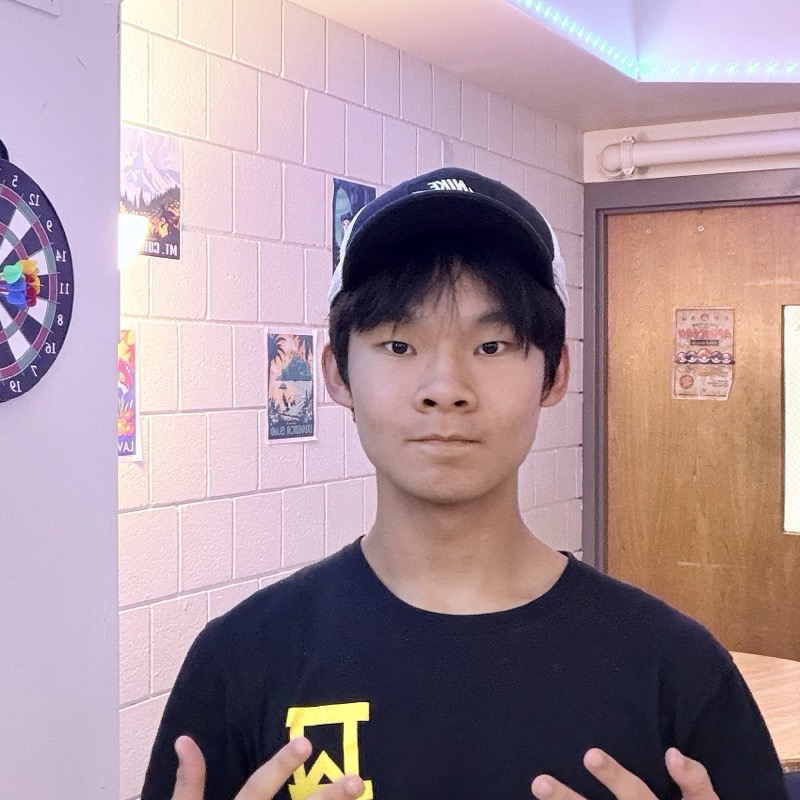
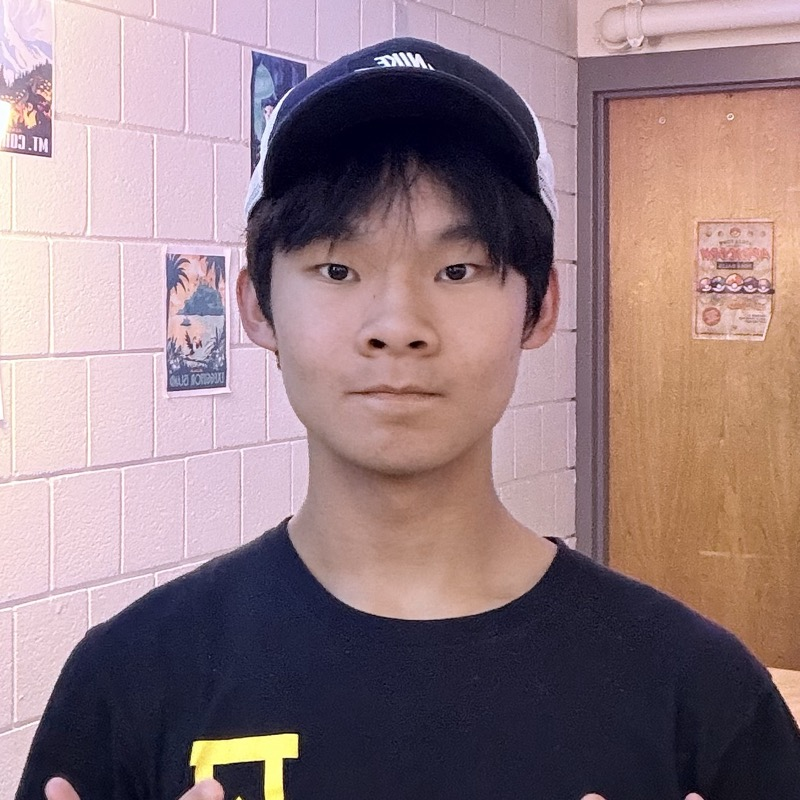
feat: add face-centered photos for all officers

diff --git a/website-frontend/app/page.tsx b/website-frontend/app/page.tsx
@@ -16,10 +16,10 @@ type GalleryItem = {
 const OFFICERS: { name: string; role: string; email: string; photo?: string }[] = [
   { name: "David Ta", role: "Co-President", email: "ta27d@ncssm.edu", photo: "/officers/david.jpg" },
   { name: "Nathaniel Joy", role: "Co-President", email: "joy27n@ncssm.edu", photo: "/officers/nathaniel.jpg" },
-  { name: "Moksha Agrawal", role: "Vice President", email: "agrawal27m@ncssm.edu" },
-  { name: "Isabella Bai", role: "Secretary", email: "bai27i@ncssm.edu" },
-  { name: "Megan Nguyen", role: "Competitive Lead", email: "nguyen27m@ncssm.edu" },
-  { name: "Ayush Kamath", role: "Reporter", email: "kamath27a@ncssm.edu" },
+  { name: "Moksha Agrawal", role: "Vice President", email: "agrawal27m@ncssm.edu", photo: "/officers/moksha.jpg" },
+  { name: "Isabella Bai", role: "Secretary", email: "bai27i@ncssm.edu", photo: "/officers/isabella.jpg" },
+  { name: "Megan Nguyen", role: "Competitive Lead", email: "nguyen27m@ncssm.edu", photo: "/officers/megan.jpg" },
+  { name: "Ayush Kamath", role: "Reporter", email: "kamath27a@ncssm.edu", photo: "/officers/ayush.jpg" },
   { name: "Aarush Jain", role: "Tech Lead", email: "jain27a@ncssm.edu", photo: "/officers/aarush.jpg" },
 ];
 
